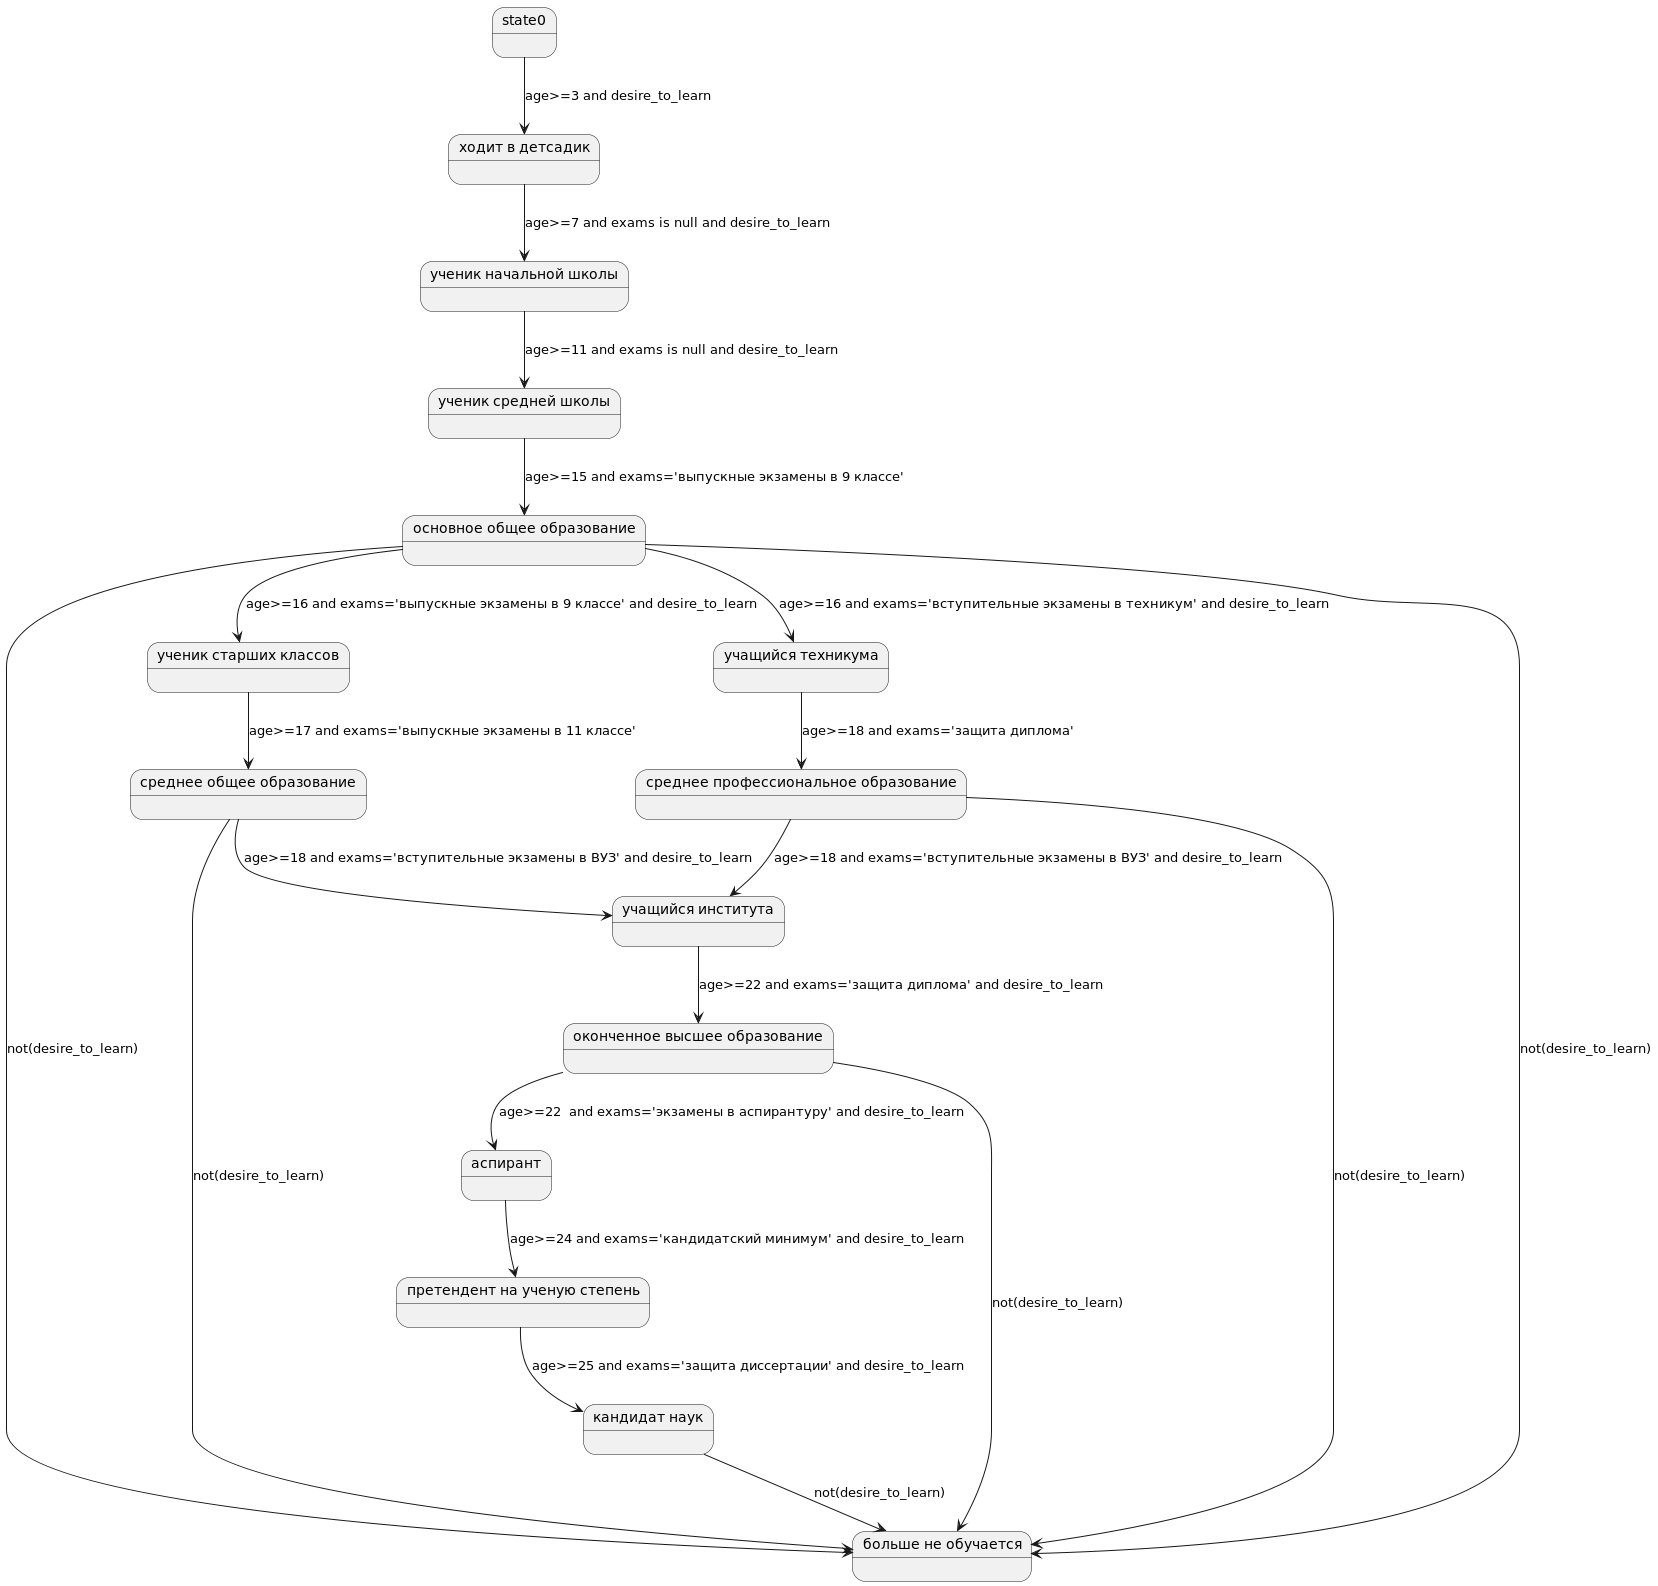
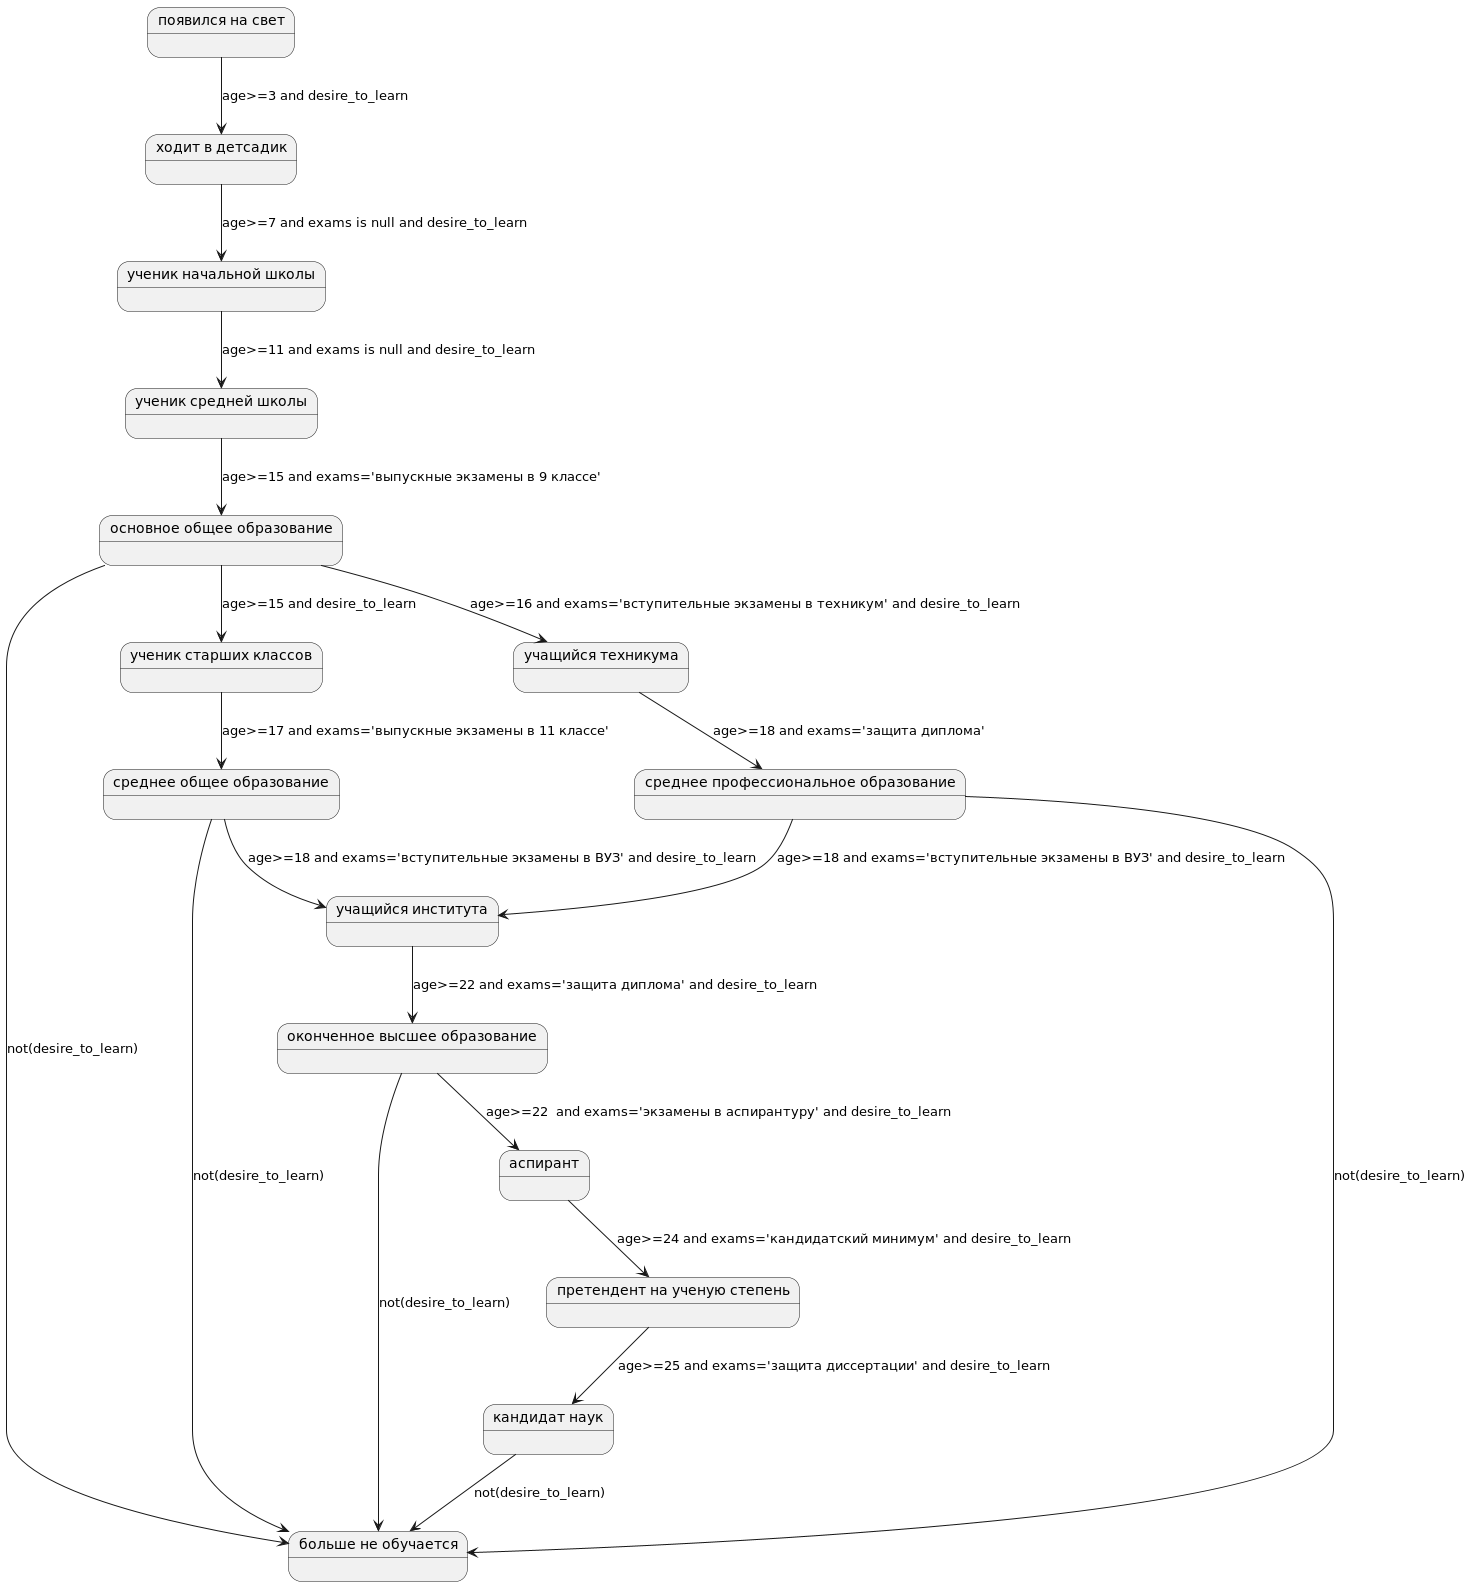
Final State Machine example for PostgreSQL on pure SQL inside "CREATE AGGREGATE"( generated from state-transition table)

diff --git a/src/main/java/com/github/isuhorukov/statemachine/StateMachineGenerator.java b/src/main/java/com/github/isuhorukov/statemachine/StateMachineGenerator.java
@@ -5,10 +5,8 @@ import java.io.FileWriter;
 import java.io.Writer;
 import java.nio.file.Files;
 import java.nio.file.Paths;
-import java.util.ArrayList;
-import java.util.HashSet;
-import java.util.List;
-import java.util.Set;
+import java.util.*;
+import java.util.stream.Collectors;
 import java.util.stream.Stream;
 
 public class StateMachineGenerator {
@@ -17,14 +15,48 @@ public class StateMachineGenerator {
         List<String> transitions = new ArrayList<>();
 
         String stateMachineSource = StateMachineGenerator.class.getResource("/education.statemachine").getFile();
+        TreeMap<Integer, TreeMap<Integer,String>> transition = new TreeMap<>();
+        TreeMap<Integer,String> stateName=new TreeMap<>();
+        ArrayList<String> calculated = new ArrayList<>();
         try (Stream<String> lines =  Files.lines(Paths.get(stateMachineSource))){
             lines.forEach(line->{ //A   B   STATE   TRANSITION_RULE
                 String[] parts = line.split("\t");
+                stateName.put(Integer.parseInt(parts[1]), parts[2]);
                 states.add("state \""+parts[2]+"\" as state"+parts[1]);
+                if(parts.length<4){
+                    return;
+                }
+                final int state = Integer.parseInt(parts[0]);
+                transition.computeIfAbsent(state, stateNum -> new TreeMap<>());
+                transition.get(state).put(Integer.parseInt(parts[1]), parts[3]);
                 transitions.add("state"+parts[0]+" --> state"+parts[1]+" : "+parts[3]);
+                calculated.add("'st"+parts[0]+"_"+parts[1]+"', ("+parts[3]+")::text ");
+
             });
         }
-        String uml = "@startuml\n" + String.join("\n", states) + "\n" + String.join("\n", transitions) + "\n@enduml";
+        final String collect = "select CASE\n" + transition.entrySet().stream().map(fromEntry -> {
+            final StringBuilder builder = new StringBuilder();
+            builder.append(" WHEN state=").append(fromEntry.getKey()).append(" THEN ")
+                    .append("--").append(stateName.get(fromEntry.getKey())).append('\n');
+            builder.append("\tCASE\n").append(fromEntry.getValue().entrySet().stream()
+                    .map(toEntry -> "\t\tWHEN transition->'st" + fromEntry.getKey() + "_" + toEntry.getKey()
+                            + "'='true' THEN " + toEntry.getKey()+" --"
+                            + toEntry.getValue()).collect(Collectors.joining("\n"))).
+                    append("\n\t\tELSE state\n\tEND\n");
+            return builder.toString();
+        }).collect(Collectors.joining())+"\tELSE state\nEND\n";
+
+        String statesSQL = "(VALUES "+stateName.entrySet().stream().map(stateNameEntry -> "("
+                + stateNameEntry.getKey() + ", '"
+                + stateNameEntry.getValue() + "')").collect(Collectors.joining(", "))
+                + ") AS state_name(state, name)";
+
+        final String query = "select *, fsm(hstore(ARRAY[" + String.join(", ", calculated) + "])) over (PARTITION BY name ORDER BY age) from life order by name,age"; //over (PARTITION BY name ORDER BY age)
+        // CREATE TABLE life( name text, age int, desire_to_learn boolean, exams text, CONSTRAINT pk_life PRIMARY KEY (name,age));
+        // \copy life from 'state_machine_example/src/main/resources/life.txt';
+        // select *, (age>=3 and desire_to_learn) st0_1, (age>=7 and exams is null and desire_to_learn) st1_2, (age>=11 and exams is null and desire_to_learn) st2_3, (age>=15 and exams='выпускные экзамены в 9 классе') st3_4, (age>=16 and exams='выпускные экзамены в 9 классе' and desire_to_learn) st4_5, (age>=17 and exams='выпускные экзамены в 11 классе') st5_6, (age>=16 and exams='вступительные экзамены в техникум' and desire_to_learn) st4_7, (age>=18 and exams='защита диплома') st7_8, (age>=18 and exams='вступительные экзамены в ВУЗ' and desire_to_learn) st6_9, (age>=18 and exams='вступительные экзамены в ВУЗ' and desire_to_learn) st8_9, (age>=22 and exams='защита диплома' and desire_to_learn) st9_10, (age>=22  and exams='экзамены в аспирантуру' and desire_to_learn) st10_11, (age>=24 and exams='кандидатский минимум' and desire_to_learn) st11_12, (age>=25 and exams='защита диссертации' and desire_to_learn) st12_13, (not(desire_to_learn)) st4_14, (not(desire_to_learn)) st4_14, (not(desire_to_learn)) st6_14, (not(desire_to_learn)) st8_14, (not(desire_to_learn)) st10_14, (not(desire_to_learn)) st13_14 from life order by name,age
+        // select hstore(ARRAY['st0_0','true','st0_1','false','st1_2','true']) from (values('aaa',true,false,true)) as t(id,st0_0,st0_1,st1_2);
+        //String uml = "@startuml\n" + String.join("\n", states) + "\n" + String.join("\n", transitions) + "\n@enduml";
         try(Writer writer = new FileWriter(new File("stateMachineSource").getName()+".puml")){
             writer.write("@startuml\n");
             writer.write(String.join("\n", states));

diff --git a/README.md b/README.md
@@ -1,0 +1,67 @@
+Final State Machine example for PostgreSQL on pure SQL inside "CREATE AGGREGATE"( generated from state-transition table).
+```sql
+SELECT life_alias.name,life_alias.age,life_alias.desire_to_learn,life_alias.exams, state_name.name state FROM 
+            (SELECT *, fsm(hstore(ARRAY['st0_1', (age>=3 and desire_to_learn)::text , 
+                                        'st1_2', (age>=7 and exams is null and desire_to_learn)::text , 
+                                        'st2_3', (age>=11 and exams is null and desire_to_learn)::text , 
+                                        'st3_4', (age>=15 and exams='выпускные экзамены в 9 классе')::text , 
+                                        'st4_5', (age>=15 and desire_to_learn)::text , 
+                                        'st5_6', (age>=17 and exams='выпускные экзамены в 11 классе')::text , 
+                                        'st4_7', (age>=16 and exams='вступительные экзамены в техникум' and desire_to_learn)::text , 
+                                        'st7_8', (age>=18 and exams='защита диплома')::text , 
+                                        'st6_9', (age>=18 and exams='вступительные экзамены в ВУЗ' and desire_to_learn)::text , 
+                                        'st8_9', (age>=18 and exams='вступительные экзамены в ВУЗ' and desire_to_learn)::text , 
+                                        'st9_10', (age>=22 and exams='защита диплома' and desire_to_learn)::text , 
+                                        'st10_11', (age>=22  and exams='экзамены в аспирантуру' and desire_to_learn)::text , 
+                                        'st11_12', (age>=24 and exams='кандидатский минимум' and desire_to_learn)::text , 
+                                        'st12_13', (age>=25 and exams='защита диссертации' and desire_to_learn)::text , 
+                                        'st4_14', (not(desire_to_learn))::text , 
+                                        'st6_14', (not(desire_to_learn))::text , 
+                                        'st8_14', (not(desire_to_learn))::text , 
+                                        'st10_14', (not(desire_to_learn))::text , 
+                                        'st13_14', (not(desire_to_learn))::text ]))
+                                         OVER (PARTITION BY name ORDER BY age) FROM life ORDER BY name,age) life_alias 
+INNER JOIN 
+( VALUES (0, 'появился на свет'), (1, 'ходит в детсадик'), (2, 'ученик начальной школы'), (3, 'ученик средней школы'), 
+         (4, 'основное общее образование'), (5, 'ученик старших классов'), (6, 'среднее общее образование'), 
+         (7, 'учащийся техникума'), (8, 'среднее профессиональное образование'), (9, 'учащийся института'), 
+         (10, 'оконченное высшее образование'), (11, 'аспирант'), (12, 'претендент на ученую степень'), 
+         (13, 'кандидат наук'), (14, 'больше не обучается')) AS state_name(state, name) 
+ON state_name.state=life_alias.fsm;
+```
+
+```bash
+ name | age | desire_to_learn |             exams              |             state             
+------+-----+-----------------+--------------------------------+-------------------------------
+ Вася |   1 | t               |                                | появился на свет
+ Вася |   2 | t               |                                | появился на свет
+ Вася |   3 | t               |                                | ходит в детсадик
+ Вася |   4 | t               |                                | ходит в детсадик
+ Вася |   5 | t               |                                | ходит в детсадик
+ Вася |   6 | t               |                                | ходит в детсадик
+ Вася |   7 | t               |                                | ученик начальной школы
+ Вася |   8 | t               |                                | ученик начальной школы
+ Вася |   9 | t               |                                | ученик начальной школы
+ Вася |  10 | t               |                                | ученик начальной школы
+ Вася |  11 | t               |                                | ученик средней школы
+ Вася |  12 | t               |                                | ученик средней школы
+ Вася |  13 | t               |                                | ученик средней школы
+ Вася |  14 | t               |                                | ученик средней школы
+ Вася |  15 | t               | выпускные экзамены в 9 классе  | основное общее образование
+ Вася |  16 | t               |                                | ученик старших классов
+ Вася |  17 | t               | выпускные экзамены в 11 классе | среднее общее образование
+ Вася |  18 | t               | вступительные экзамены в ВУЗ   | учащийся института
+ Вася |  19 | t               |                                | учащийся института
+ Вася |  20 | t               |                                | учащийся института
+ Вася |  21 | t               |                                | учащийся института
+ Вася |  22 | t               | защита диплома                 | оконченное высшее образование
+ Вася |  23 | t               |                                | оконченное высшее образование
+ Вася |  24 | t               |                                | оконченное высшее образование
+ Вася |  25 | t               |                                | оконченное высшее образование
+ Вася |  26 | t               |                                | оконченное высшее образование
+ Вася |  27 | f               |                                | больше не обучается
+ Вася |  28 | f               |                                | больше не обучается
+ Вася |  29 | f               |                                | больше не обучается
+ Вася |  30 | f               |                                | больше не обучается
+(30 rows)
+```
